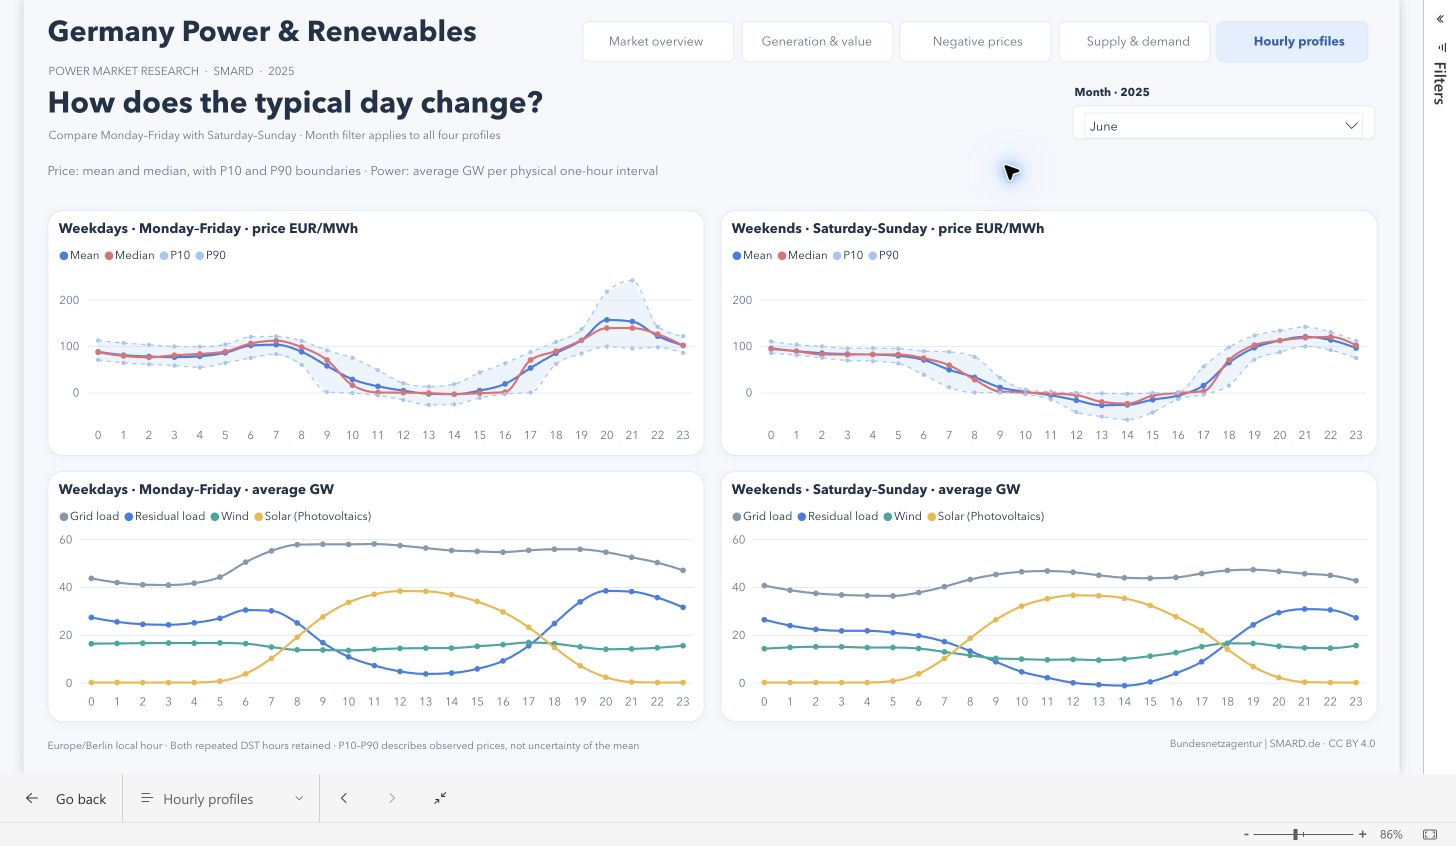
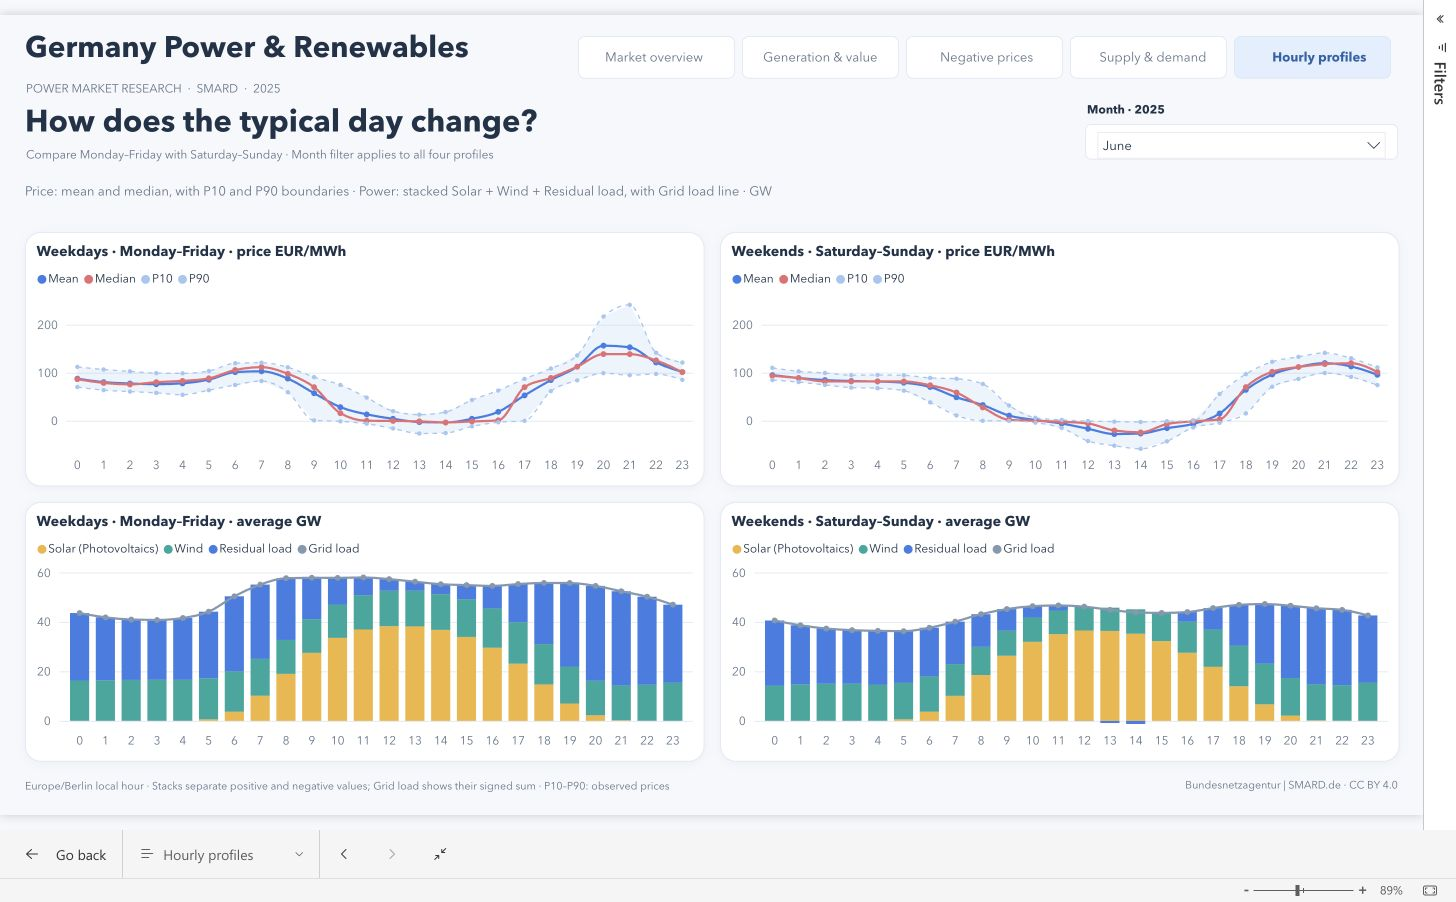
Document verified stacked demand profiles and refresh Fabric screenshots

diff --git a/evidence/powerbi/README.md b/evidence/powerbi/README.md
@@ -40,7 +40,7 @@ The generation-mix page now shows source percentages and full source labels, whi
 
 ## Hourly profiles
 
-Price mean, median and P10/P90 boundaries are shown separately for weekdays and weekends, followed by average grid load, residual load, wind and Solar (Photovoltaics) in GW. The common month filter recomputes all statistics from physical-hour observations. Holidays are classified by their day of week. The two price panels share one dynamic scale, as do the power panels.
+Price mean, median and P10/P90 boundaries are shown separately for weekdays and weekends, followed by stacked Solar (Photovoltaics), Wind and Residual load columns with an overlaid Grid load line in GW. The common month filter recomputes all statistics from physical-hour observations. Holidays are classified by their day of week. The two price panels share one dynamic scale, as do the power panels.
 
 ![Hourly profiles in Fabric](06_hourly_profiles.png)
 
@@ -49,3 +49,5 @@ Independent numerical checks for every year/month, day-type and local-hour group
 ![June hourly profiles in Fabric](07_hourly_profiles_june.png)
 
 The hourly-profile styling uses circular markers and monotone smooth interpolation. P10 and P90 are dashed in light blue (#A4C7F2), with a matching native error band at 80% transparency. The native band uses the inclusive percentile measures as absolute bounds on the median series; it does not shade down to zero. All profile statistics and month filters retain their original definitions.
+
+Lower profile panels now use a single shared scale for the stacked columns and the Grid load line. Negative residual load extends below zero; the line tracks the signed sum, while the positive stack alone can be higher. Month and weekday/weekend definitions are unchanged.

diff --git a/README.md b/README.md
@@ -58,4 +58,4 @@ Data: [Bundesnetzagentur | SMARD.de](https://www.smard.de/en/downloadcenter/down
 
 Time handling follows [SMARD's explanation of CET/CEST and clock changes](https://www.smard.de/en/change-from-summer-to-winter-time-218202). Raw downloads were retrieved on 6 November 2026; file hashes and initial quality profiles are recorded with the data.
 
-The Hourly profiles page compares weekdays (Monday–Friday) and weekends (Saturday–Sunday), with one common month selector. Price profiles show the mean, median, P10 and P90 at each local hour. The lower panels show average grid load, residual load, combined wind and Solar (Photovoltaics) in GW. Paired panels share filter-aware scales. Holidays are classified by their weekday; percentiles describe observed hourly prices and are not confidence intervals.
+The Hourly profiles page compares weekdays (Monday–Friday) and weekends (Saturday–Sunday), with one common month selector. Price profiles show the mean, median, P10 and P90 at each local hour. The lower panels stack average Solar (Photovoltaics), combined Wind and Residual load in GW, with Grid load overlaid as a line on the same scale. Negative residual values extend below zero. Paired panels share filter-aware scales. Holidays are classified by their weekday; percentiles describe observed hourly prices and are not confidence intervals.

diff --git a/research/metrics_and_figures.md b/research/metrics_and_figures.md
@@ -155,3 +155,5 @@ For June at 13:00, the 21 weekday observations have a mean of -2.63, median -1.0
 Independent checks for all 624 year/month × day-type × hour groups are retained in [hourly_profiles_local.json](../evidence/powerbi/hourly_profiles_local.json).
 
 ![Hourly price and power profiles rendered in Fabric](../evidence/powerbi/06_hourly_profiles.png)
+
+The lower panels use native line-and-stacked-column charts: Solar (Photovoltaics), combined Wind and Residual load form the columns, with Grid load overlaid as a line. All four series share the same GW scale. The dynamic scale includes the positive stack and any negative residual load for both day types. Because stacking separates positive and negative values, the top of the positive column can exceed the Grid load line when residual load is negative; the signed sum remains equal to Grid load within source rounding. The maximum imbalance across the 624 independently computed profile groups is 0.000006 GW. The grid-load line is therefore a net-demand reference, not an additional stacked component.
